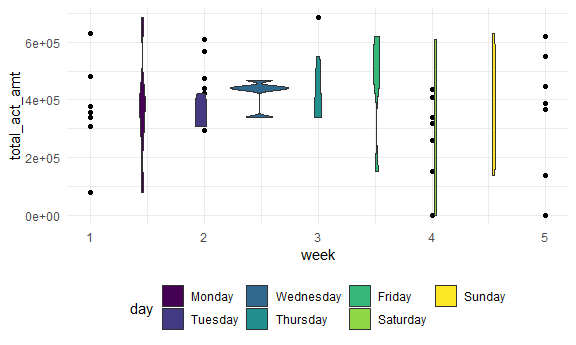
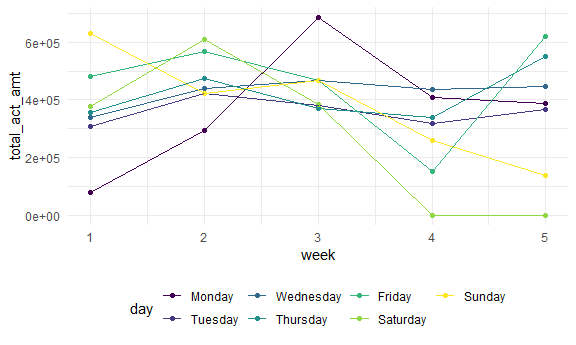
still problems exist but commit as problem 3 solved

diff --git a/p8105_hw3_yl4604.md b/p8105_hw3_yl4604.md
@@ -192,9 +192,9 @@ knitr::kable(act_amt_df)
 |     5| Sunday    |        138421.00|
 
 ``` r
-ggplot(act_amt_df, aes(x = week, y = total_act_amt, fill = day)) +
+ggplot(act_amt_df, aes(x = week, y = total_act_amt, color = day)) +
 geom_point() +
-geom_violin()
+geom_line()
 ```
 
 <img src="p8105_hw3_yl4604_files/figure-markdown_github/unnamed-chunk-7-1.png" width="90%" />
@@ -206,10 +206,99 @@ Make a plot
 ``` r
 accel_df %>%
   ggplot(aes(x = min_of_day, y = amt_act, color = day)) +
-  geom_point() +
-  geom_line(alpha = .5)
+  geom_point(alpha = .5) +
+  geom_smooth()
 ```
+
+    ## `geom_smooth()` using method = 'gam' and formula 'y ~ s(x, bs = "cs")'
 
 <img src="p8105_hw3_yl4604_files/figure-markdown_github/unnamed-chunk-8-1.png" width="90%" />
 
+``` r
+  #geom_line(alpha = .5)
+```
+
 ???
+
+Problem 3
+---------
+
+``` r
+library(p8105.datasets)
+data("ny_noaa")
+```
+
+This dataset contains variables for all NEW YORK weather station from January 1, 1981 through December 31, 2010. variables in this datasets are id, date, prcp, snow, snwd, tmax, tmin. The dataset has 2595176 rows and 7 columns.
+
+Clean and wrangling the data. Find the most commonly obvserved value for snow fall.
+
+``` r
+ny_noaa_df =
+  ny_noaa %>% 
+  separate(date, into = c('year', 'month', 'day'), sep = '-') %>% 
+#? can not use unique(ny_noaa_df, snow)?....object 'snow' not found
+  mutate(
+    tmin = as.numeric(tmin),
+    tmin = tmin / 10,
+    tmax = as.numeric(tmax),
+    tmax = tmax / 10,
+    snow = snow / 10
+  )
+ny_noaa_df %>% 
+  count(snow) %>% 
+  arrange(desc(n))
+```
+
+    ## # A tibble: 282 x 2
+    ##     snow       n
+    ##    <dbl>   <int>
+    ##  1   0   2008508
+    ##  2  NA    381221
+    ##  3   2.5   31022
+    ##  4   1.3   23095
+    ##  5   5.1   18274
+    ##  6   7.6   10173
+    ##  7   0.8    9962
+    ##  8   0.5    9748
+    ##  9   3.8    9197
+    ## 10   0.3    8790
+    ## # ... with 272 more rows
+
+The most commonly observed values for snowfall are o and NA. It is because except for some coldest days in winter, normally New York would not snow.
+
+Make a two-panel plot showing the average max temperature in January and in July in each station across years.
+
+``` r
+ny_noaa_df %>% 
+  filter(month %in% c('01','07')) %>% 
+  group_by(month, year, id) %>% 
+  summarize(avg_tmax = mean(tmax)) %>% 
+  ggplot(aes(x = year, y = avg_tmax )) +
+  geom_boxplot() +
+  facet_grid(. ~ month) +
+  theme(axis.text.x = element_text(angle = 90, vjust = 0.5, hjust = 1))
+```
+
+    ## `summarise()` regrouping output by 'month', 'year' (override with `.groups` argument)
+
+    ## Warning: Removed 7058 rows containing non-finite values (stat_boxplot).
+
+<img src="p8105_hw3_yl4604_files/figure-markdown_github/unnamed-chunk-11-1.png" width="90%" />
+
+According to the boxplot, average max temperatures in July are significantly higher than January in each station across years, which is faily reasonalble. There are some outliers.
+
+tmax vs tmin ???
+
+``` r
+tmax_vx_tmin = 
+  ny_noaa_df %>% 
+  ggplot(aes(x = tmin, y = tmax)) +
+  geom_hex()
+
+snow_fall_df = 
+  ny_noaa_df %>% 
+  filter(snow > 0) %>% 
+  filter(snow < 100) %>% 
+  ggplot(aes(x = year, y = snow)) +
+  geom_boxplot()
+```
